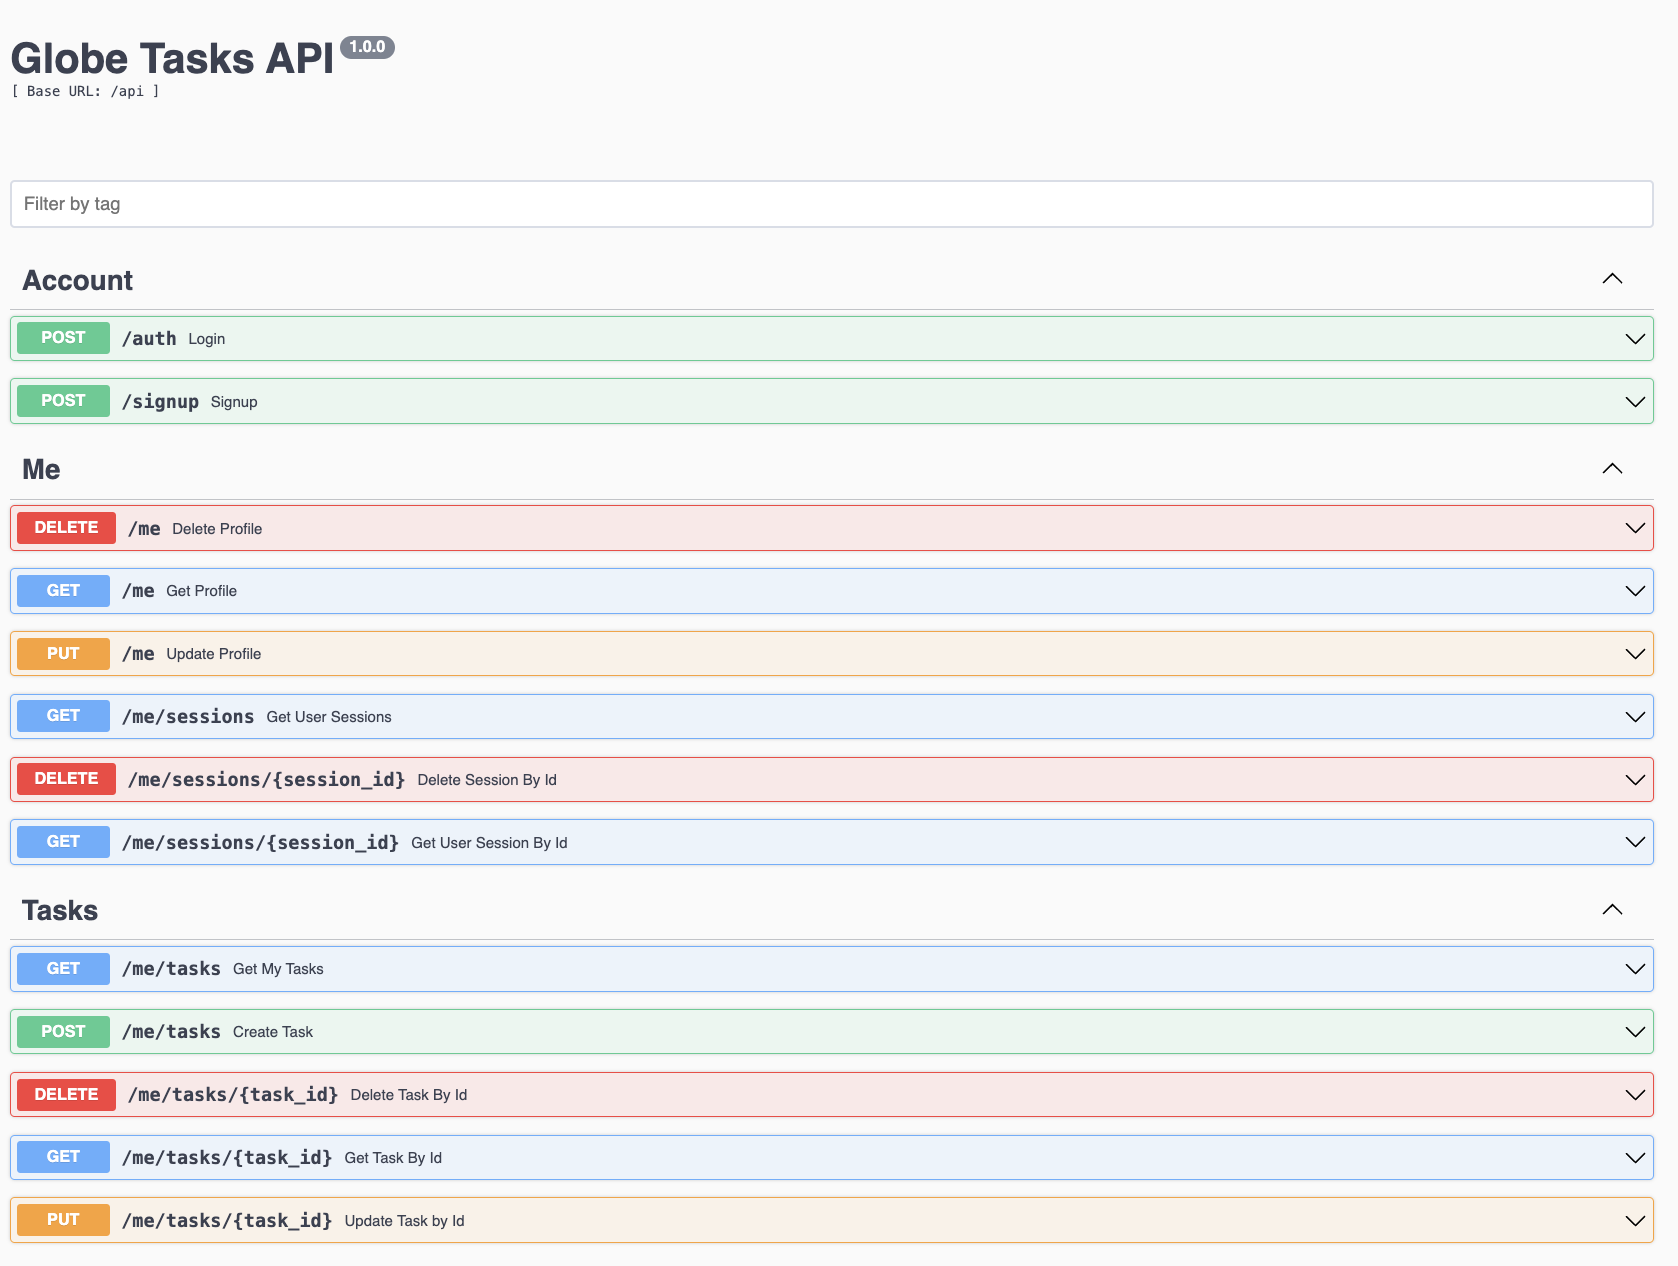
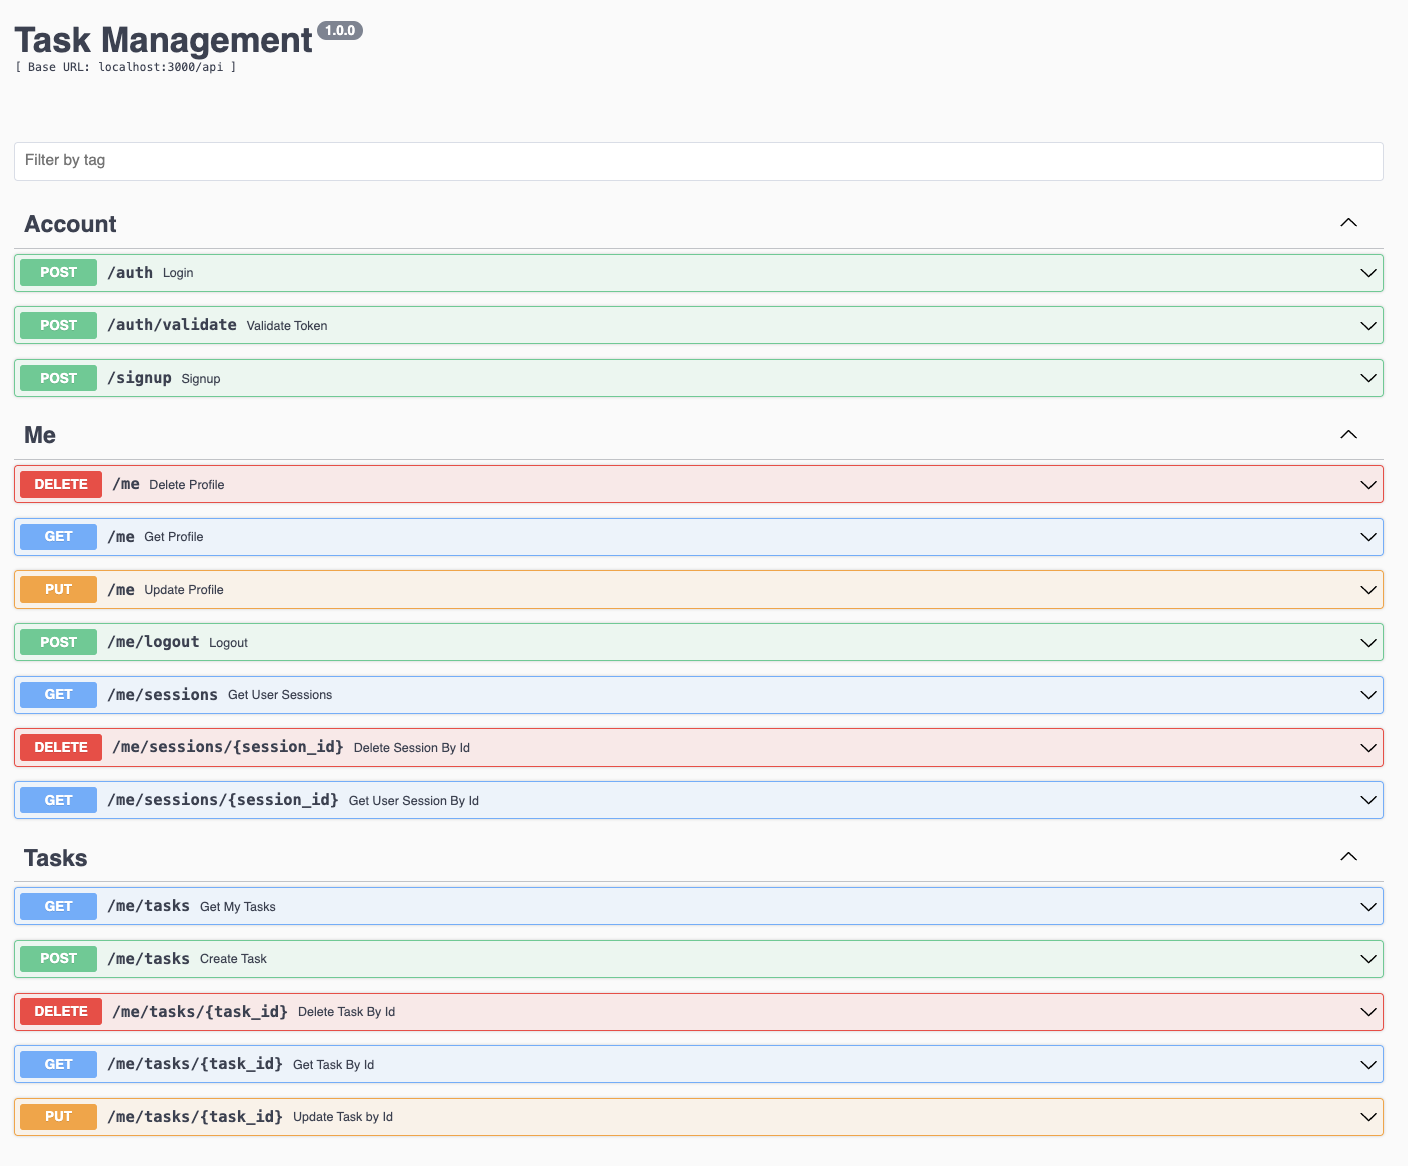
Add missing routes - Update README - Add new tests - Update swagger screenshot and image

Changed region(s): [[0.0, 0.1235, 1.0, 0.988], [0.0, 0.0, 0.25, 0.0926]]

diff --git a/test/3_auth.test.js b/test/3_auth.test.js
@@ -4,6 +4,7 @@ const joi = require('joi');
 
 const { credential } = require('./creds');
 
+let myToken = '';
 describe('POST /api/auth', () => {
   it('should be able to login', async () => {
     const res = await request(app).post('/api/auth').send(credential.correct)
@@ -20,6 +21,8 @@ describe('POST /api/auth', () => {
     if(validate.error){
       throw new Error(validate.error);
     }
+
+    myToken = res.body.token;
   });
 
   it('should not accept a blank request', async () => {
@@ -71,6 +74,24 @@ describe('POST /api/auth', () => {
     if(validate.error){
       throw new Error(validate.error);
     }
+  });
+
+  after(async () => {});
+});
+
+describe('POST /api/auth/validate', () => {
+  it('should be able to validate token', async () => {
+    const res = await request(app).post('/api/auth/validate').set('Authorization', `Bearer ${myToken}`).send()
+
+    // Check status code
+    if (res.status != 200) throw new Error(`Expected status 200, got ${res.status}`)
+  });
+
+  it('should be able to get 401 if invalid token', async () => {
+    const res = await request(app).post('/api/auth/validate').set('Authorization', `Bearer `).send()
+
+    // Check status code
+    if (res.status != 401) throw new Error(`Expected status 401, got ${res.status}`)
   });
 
   after(async () => {});

diff --git a/test/7_logout.test.js b/test/7_logout.test.js
@@ -1,0 +1,27 @@
+const request = require('supertest');
+const app = require('../app')
+const joi = require('joi');
+
+const { credential } = require('./creds');
+
+describe('POST /api/me/logout', () => {
+  it('should be able to get 401 when wrong token', async () => {
+    const meResult = await request(app).post('/api/me/logout').set('Authorization', `Bearer `)
+    // Check status code
+    if (meResult.status !== 401) throw new Error(`Expected status 401, got ${meResult.status}`)
+    if (typeof meResult.body !== 'object') throw new Error(`Response is not an object.`);
+  });
+
+  it('should be able to logout my account', async () => {
+    const auth = await request(app).post('/api/auth').send(credential.correct).expect(200)
+    const myToken = auth.body.token;
+
+    const meResult = await request(app).post('/api/me/logout').set('Authorization', `Bearer ${myToken}`)
+    // Check status code
+    if (meResult.status !== 200) throw new Error(`Expected status 200, got ${meResult.status}`)
+    if (typeof meResult.body !== 'object') throw new Error(`Response is not an object.`);
+  });
+
+  after(async () => {});
+  
+});

diff --git a/routes/api/auth/index.js b/routes/api/auth/index.js
@@ -3,6 +3,7 @@ const router = express.Router();
 const user = require('../../../models/Users');
 const { checkLoginRequest } = require('./dto');
 const { checkBlankBody } = require('../common-dto');
+const { isValidToken } = require('../../../middleware/token');
 
 // check credentials here
 router.post('/', [checkBlankBody, checkLoginRequest], async (req, res)=> {
@@ -13,6 +14,12 @@ router.post('/', [checkBlankBody, checkLoginRequest], async (req, res)=> {
   res.send({
     token: result
   })
+});
+
+router.post('/validate', [isValidToken], async (req, res)=> {
+  const result = await user.getUserSessionByIdAndOwner(res.locals.token.id, res.locals.user.id);
+  if(result.error) return res.status(401).send()
+  res.send();
 });
 
 module.exports = router;

diff --git a/routes/api/me/index.js b/routes/api/me/index.js
@@ -8,6 +8,16 @@ const { checkBlankBody } = require('../common-dto')
 router.use('/tasks', require('../tasks'));
 router.use('/sessions', require('../sessions'));
 
+// check credentials here
+router.post('/logout', async (req, res)=> {
+  const result = await User.deleteUserSessionById(res.locals.token.id, res.locals.user.id);
+  if(result.error) 
+    return res.status(401).send({
+      message: 'Unauthorized'
+    })
+  res.status(200).send();
+});
+
 // get user data
 router.get('/', (req, res)=> {
   const user = res.locals.user;

diff --git a/middleware/token.js b/middleware/token.js
@@ -4,7 +4,7 @@ const User = require('../models/Users');
 module.exports = {
     isValidToken : async (req, res, next)=>{
         if(!req.headers.authorization){
-            res.status(401).send({
+            return res.status(401).send({
                 message: 'Unauthorize'
             })
         }

diff --git a/README.md b/README.md
@@ -6,7 +6,7 @@
 ### References
 
 Check the swagger here [swagger](docs/swagger.yml)<br>
-Check the postman collection here [postman](https://documenter.getpostman.com/view/2987353/2sB2cX7L82)<br>
+Check the postman collection here [postman](https://documenter.getpostman.com/view/2987353/2sB2cX91ky)<br>
 
 ### Prerequisite
 
